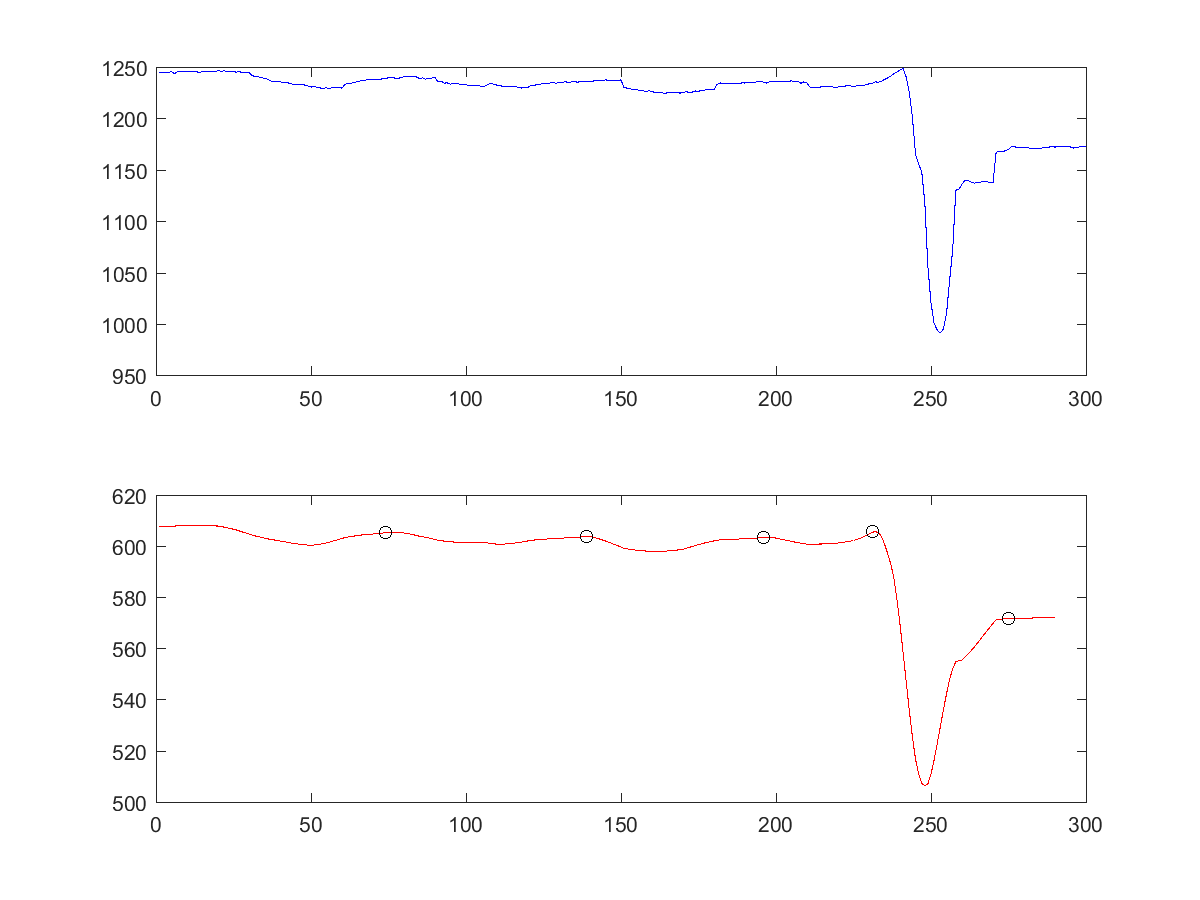
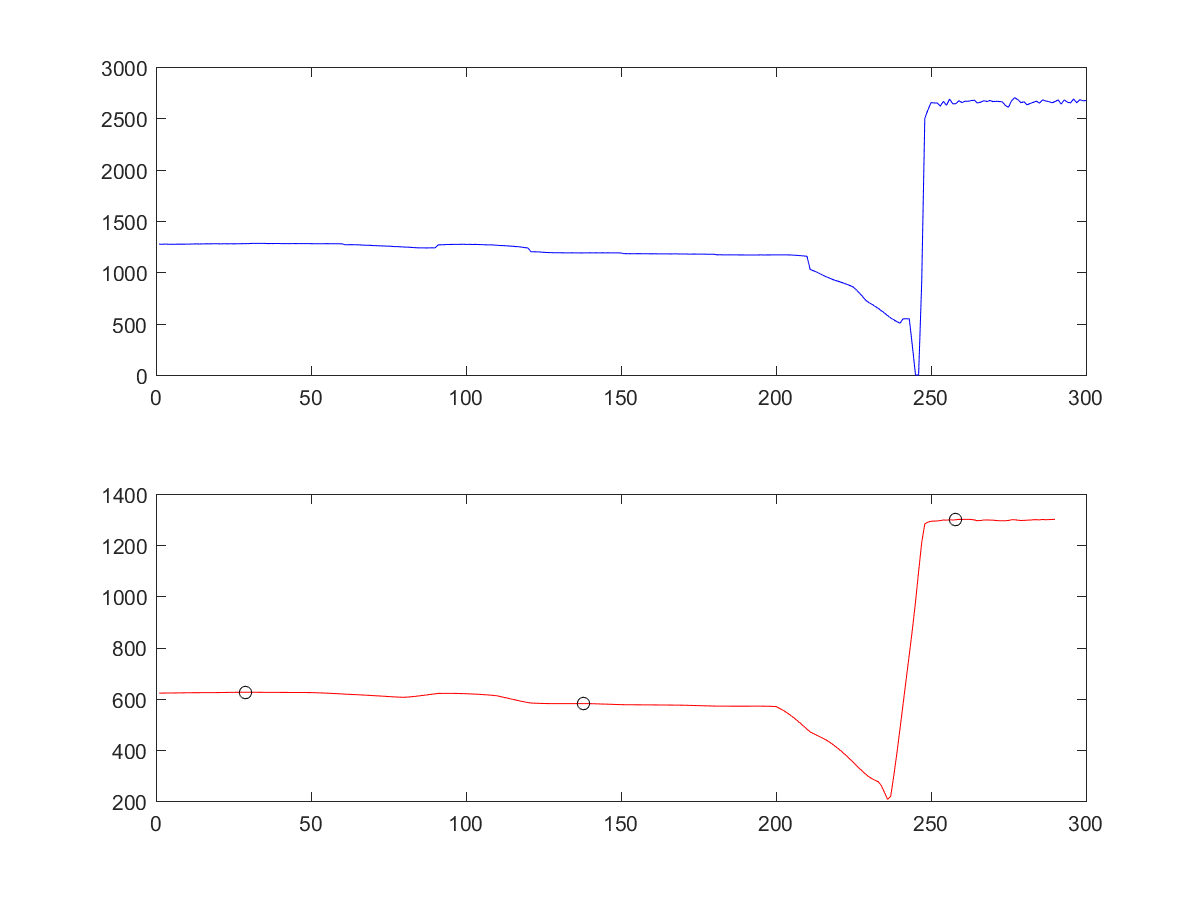
Vet ej vad jag har gjort

diff --git a/Double-sensoring-WPF/MainWindow.xaml b/Double-sensoring-WPF/MainWindow.xaml
@@ -35,15 +35,14 @@
         <TextBlock x:Name="textBlock5" HorizontalAlignment="Left" Margin="910,576,0,0" TextWrapping="Wrap" VerticalAlignment="Top" Height="23" Width="193" Grid.Column="1"><Span Background="White" Foreground="#FFA31515" FontSize="12.6666666666667" FontFamily="Consolas"><Run Text="Element i andningslistan: "/></Span></TextBlock>
         <TextBlock x:Name="averageBreathingTextBlock" Grid.Column="1" HorizontalAlignment="Left" Margin="910,351,0,0" TextWrapping="Wrap" Text="averageBreathing" VerticalAlignment="Top" Height="71" Width="183"/>
         <Module_Graphs:YTGraphWPFUC x:Name="chartBreath" Grid.Column="1" HorizontalAlignment="Left" Margin="10,10,0,0" VerticalAlignment="Top" Height="204" Width="643"/>
-        <Module_Graphs:YTGraphWPFUC x:Name="chartPulse" Grid.Column="1" HorizontalAlignment="Left" Margin="10,219,0,0" VerticalAlignment="Top" Height="204" Width="643"/>
-        <Module_Graphs:YTGraphWPFUC x:Name="chartIntensity" Grid.Column="1" HorizontalAlignment="Left" Margin="10,428,0,0" VerticalAlignment="Top" Height="204" Width="643"/>
+        <Module_Graphs:YTGraphWPFUC x:Name="chartPulse" Grid.Column="1" HorizontalAlignment="Left" Margin="10,350,0,0" VerticalAlignment="Top" Height="204" Width="643"/>
         <TextBox x:Name="inputTextPulse" Grid.Column="1" HorizontalAlignment="Left" Height="30" Margin="706,351,0,0" TextWrapping="Wrap" VerticalAlignment="Top" Width="169" MaxLines="2"/>
         <Button x:Name="retrieveInputPulse" Content="Enter" Grid.Column="1" HorizontalAlignment="Left" Margin="753,403,0,0" VerticalAlignment="Top" Width="75" Click="retrieveInputPulse_Click"/>
         <TextBlock x:Name="informationTextPulse" Grid.Column="1" HorizontalAlignment="Left" Margin="706,308,0,0" TextWrapping="Wrap" VerticalAlignment="Top" Width="169" Height="36"><Run Text="Skriv in en önskvärd larmnivå"/><Run Text=" på pulsen"/><LineBreak/><Run/><LineBreak/><Run/></TextBlock>
         <TextBox x:Name="inputTextBreathing" Grid.Column="1" HorizontalAlignment="Left" Height="30" Margin="706,490,0,0" TextWrapping="Wrap" VerticalAlignment="Top" Width="169"/>
         <Button x:Name="retrieveInputBreathing" Content="Enter" Grid.Column="1" HorizontalAlignment="Left" Margin="753,541,0,0" VerticalAlignment="Top" Width="74" Click="retrieveInputBreathing_Click"/>
         <TextBlock x:Name="informationTextPulse_Copy" Grid.Column="1" HorizontalAlignment="Left" Margin="706,439,0,0" TextWrapping="Wrap" VerticalAlignment="Top" Width="169" Height="36"><Run Text="Skriv in en önskvärd larmnivå"/><Run Text=" på "/><Run Text="andningen"/><LineBreak/><Run/><LineBreak/><Run/></TextBlock>
-        <TextBlock x:Name="textBlock6" Grid.Column="1" HorizontalAlignment="Left" Margin="1256,383,0,0" TextWrapping="Wrap" Text="Intensitet: " VerticalAlignment="Top" Height="71" Width="130"/>
+        
 
     </Grid>
 </Window>

diff --git a/Double-sensoring-WPF/MainWindow.xaml.cs b/Double-sensoring-WPF/MainWindow.xaml.cs
@@ -37,7 +37,7 @@ namespace Microsoft.Samples.Kinect.BodyBasics
         /// </summary>
         private double bellyJointYPosition = 2 / 3;
         private double bellyJointXPosition = 2 / 3;
-        int lowNumPulse = 20;
+        int lowNumPulse = 30;
         int lowNumBreathing = 10;
         double heartrate = 0;
         double average = 0;
@@ -82,8 +82,8 @@ namespace Microsoft.Samples.Kinect.BodyBasics
         List<double> listIntensity = new List<double>();
 
         //Filter
-        OnlineFilter bpFiltBreath = OnlineFilter.CreateBandpass(ImpulseResponse.Finite, 30, 6/60, 60/60, 10);
-        OnlineFilter bpFiltPulse = OnlineFilter.CreateBandpass(ImpulseResponse.Finite, 30, 40/60, 160/60, 10);
+        OnlineFilter bpFiltBreath = OnlineFilter.CreateBandpass(ImpulseResponse.Finite, 30, 6/60, 60/60, 27);
+        OnlineFilter bpFiltPulse = OnlineFilter.CreateBandpass(ImpulseResponse.Finite, 30, 40/60, 160/60, 27);
         //----------------------------------------------------------------------------------------
 
         private static readonly int Bgr32BytesPerPixel = (PixelFormats.Bgr32.BitsPerPixel + 7) / 8;
@@ -448,12 +448,9 @@ namespace Microsoft.Samples.Kinect.BodyBasics
                     object[] res = result as object[];
                     heartrate = Math.Round(Convert.ToDouble(res[0]));
                     */
-                    //Konvertera en av listorna till en temporär lista
-                    List<double> templist = new List<double>();
-                    templist = rgbList[0];
 
                     //filtrering
-                    double[] measurementsFilt = bpFiltPulse.ProcessSamples(templist.ToArray());
+                    double[] measurementsFilt = bpFiltPulse.ProcessSamples(rgbList[1].ToArray());
                     List<double> measurementsFiltList = measurementsFilt.ToList();
 
                     measurementsFiltList.RemoveRange(0, 10);
@@ -577,7 +574,7 @@ namespace Microsoft.Samples.Kinect.BodyBasics
                 }
                 else if (codeString == "Intensity")
                 {
-                    //filtrering
+                /*    //filtrering
                     double[] measurementsFilt = bpFiltPulse.ProcessSamples(measurements.ToArray());
                     List<double> measurementsFiltList = measurementsFilt.ToList();
 
@@ -605,7 +602,7 @@ namespace Microsoft.Samples.Kinect.BodyBasics
                     if (measurements.Count() >= 610)
                     {
                         listIntensity.RemoveRange(0, 10);
-                    }
+                    }*/
                 }
                 else
                 {
@@ -972,7 +969,7 @@ namespace Microsoft.Samples.Kinect.BodyBasics
             try
             {
                 int inputnumber = Convert.ToInt32(inputTextPulse.Text);
-                if (inputnumber > 30 && inputnumber < 200)
+                if (inputnumber >= 30 && inputnumber <= 200)
                 {
                     lowNumPulse = inputnumber;
                 }
@@ -990,7 +987,7 @@ namespace Microsoft.Samples.Kinect.BodyBasics
             try
             {
                 int inputnumber = Convert.ToInt32(inputTextBreathing.Text);
-                if (inputnumber > 2 && inputnumber < 40)
+                if (inputnumber >= 2 && inputnumber <= 40)
                 {
                     lowNumBreathing = inputnumber;
                 }
